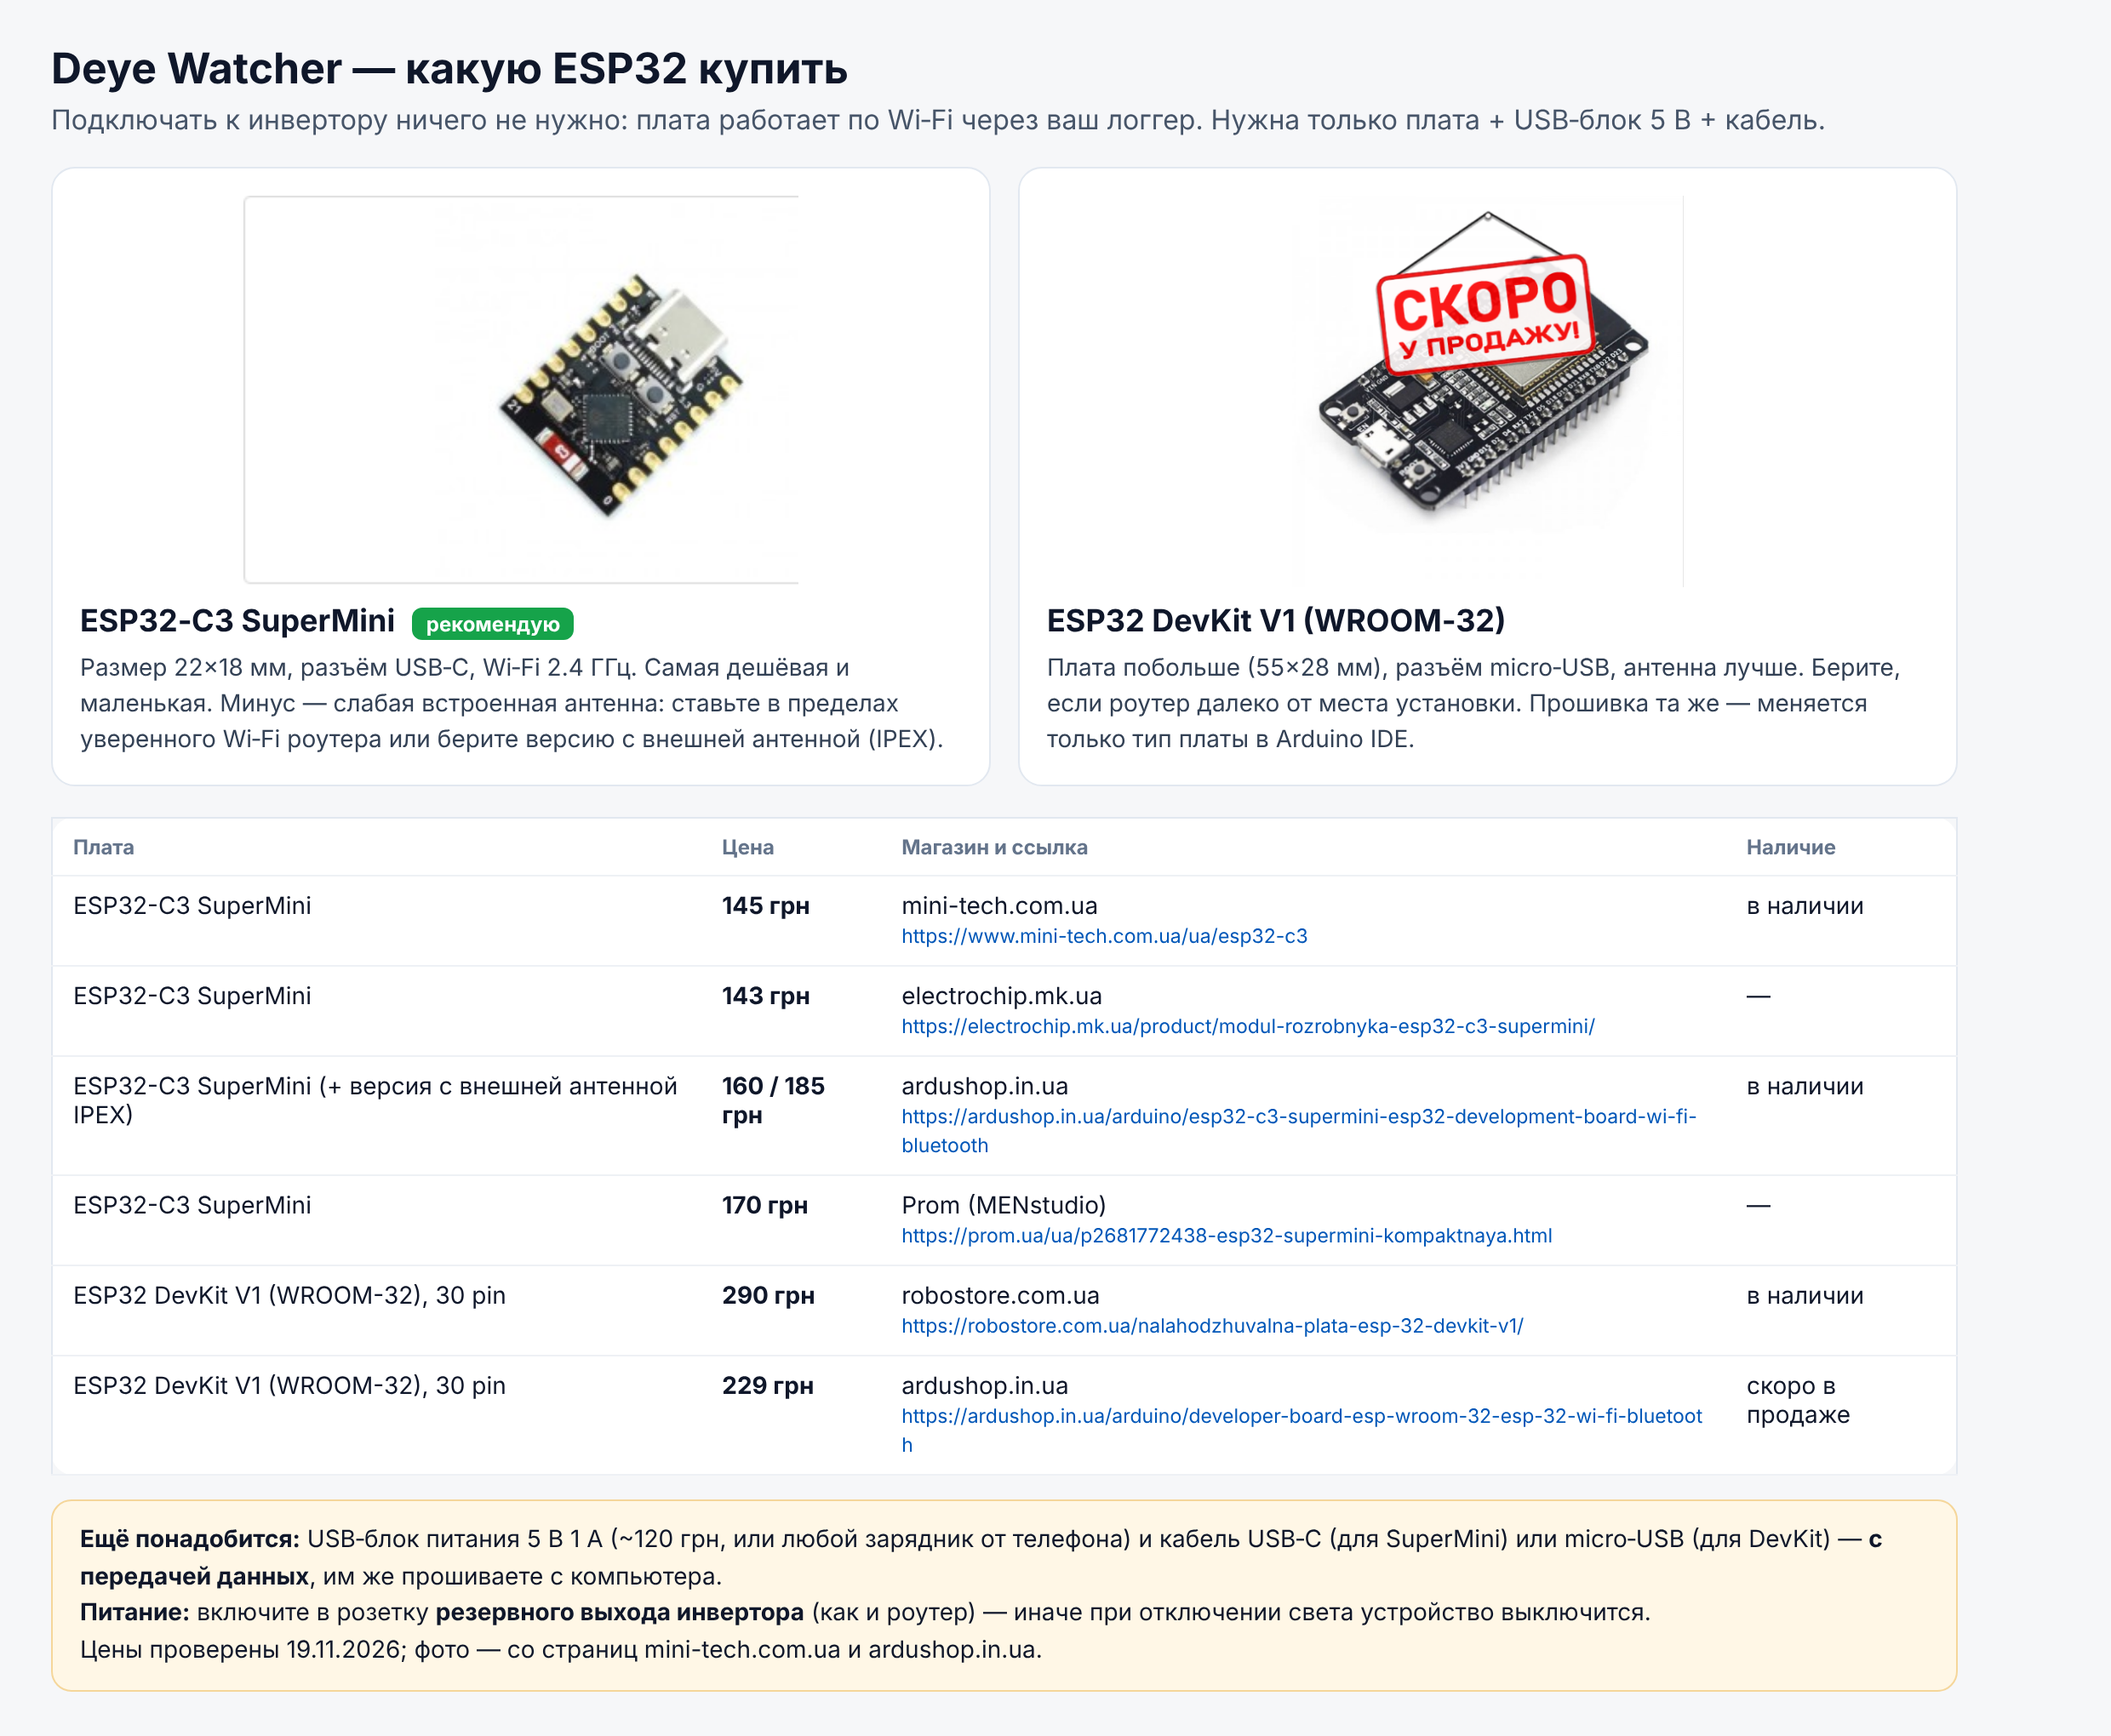
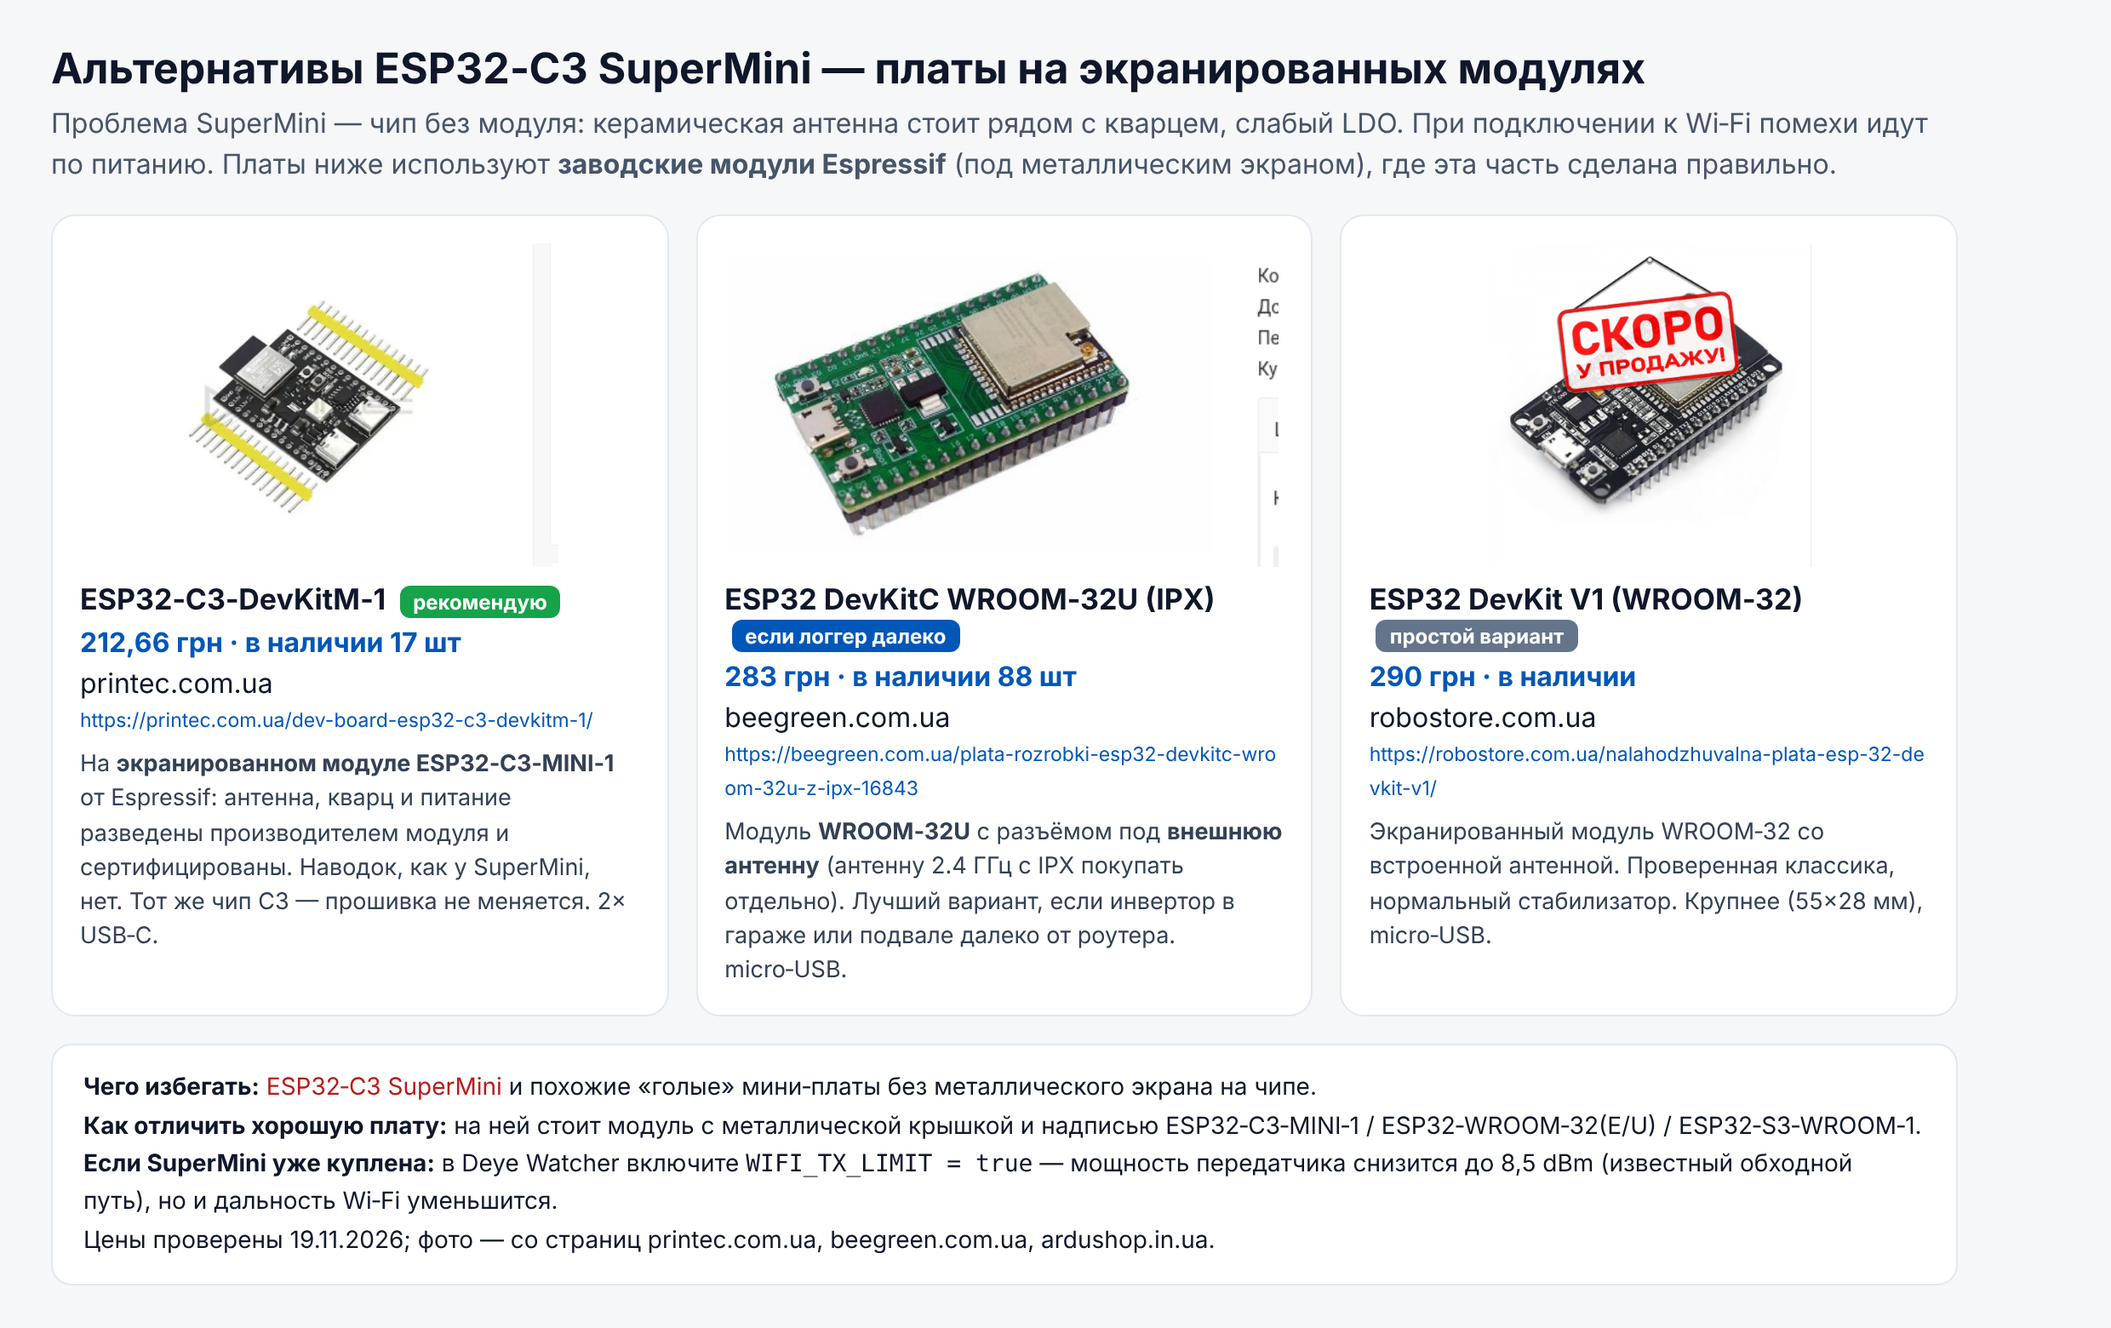
Deye Watcher: recommend module-based ESP32 boards, add TX power limit for SuperMini
ESP32-C3 SuperMini has a known RF/power layout flaw; recommend boards
with shielded Espressif modules and add WIFI_TX_LIMIT (8.5 dBm) option.

Claude-Session: https://claude.ai/code/session_01J7q9yPYShRGx79Xq9LS8H2

Changed region(s): [[0.0, 0.0308, 0.9315, 0.9846]]

diff --git a/light-watcher/Deye_Watcher/README.md b/light-watcher/Deye_Watcher/README.md
@@ -15,11 +15,14 @@
 ## Что купить
 | Что | Цена | Где |
 |---|---|---|
-| **ESP32‑C3 SuperMini** (рекомендую) | 143–170 грн | [mini-tech.com.ua](https://www.mini-tech.com.ua/ua/esp32-c3) · [electrochip.mk.ua](https://electrochip.mk.ua/product/modul-rozrobnyka-esp32-c3-supermini/) · [ardushop.in.ua](https://ardushop.in.ua/arduino/esp32-c3-supermini-esp32-development-board-wi-fi-bluetooth) (есть версия с внешней антенной, 185 грн) · [Prom](https://prom.ua/ua/p2681772438-esp32-supermini-kompaktnaya.html) |
-| или **ESP32 DevKit V1** — лучше антенна, если роутер далеко | 229–290 грн | [robostore.com.ua](https://robostore.com.ua/nalahodzhuvalna-plata-esp-32-devkit-v1/) · [ardushop.in.ua](https://ardushop.in.ua/arduino/developer-board-esp-wroom-32-esp-32-wi-fi-bluetooth) |
-| USB‑блок 5 В 1 А + кабель USB‑C (или micro‑USB для DevKit) **с передачей данных** | ~120–160 грн | любой магазин, подойдёт зарядка от телефона |
+| **ESP32‑C3‑DevKitM‑1** — модуль ESP32‑C3‑MINI‑1 под экраном (рекомендую) | 212,66 грн | [printec.com.ua](https://printec.com.ua/dev-board-esp32-c3-devkitm-1/) |
+| **ESP32 DevKitC WROOM‑32U** — разъём под внешнюю антенну, если логгер далеко от роутера | 283 грн | [beegreen.com.ua](https://beegreen.com.ua/plata-rozrobki-esp32-devkitc-wroom-32u-z-ipx-16843) (антенну IPX 2.4 ГГц докупить) |
+| **ESP32 DevKit V1 (WROOM‑32)** | 290 грн | [robostore.com.ua](https://robostore.com.ua/nalahodzhuvalna-plata-esp-32-devkit-v1/) |
+| USB‑блок 5 В 1 А + кабель **с передачей данных** | ~120–160 грн | подойдёт зарядка от телефона |
 
-**Итого ≈ 300 грн.** Питать от **резервного выхода инвертора**, как и Wi‑Fi роутер, иначе при отключении всё выключится.
+⚠ **ESP32‑C3 SuperMini не рекомендую:** чип без экранированного модуля, антенна рядом с кварцем, слабый стабилизатор — Wi‑Fi часто не подключается ([Reddit](https://www.reddit.com/r/esp32/comments/1r37gmk/esp32c3_super_minis_wifi_not_working/), [Arduino Project Hub](https://projecthub.arduino.cc/tarantula3/esp32-c3-super-mini-wifi-fix-3-methods-that-work-866a5e)). Если уже купили — поставьте `WIFI_TX_LIMIT = true` (мощность 8,5 dBm, меньше дальность).
+
+**Итого ≈ 350–450 грн.** Питать от **резервного выхода инвертора**, как и Wi‑Fi роутер, иначе при отключении всё выключится.
 
 ## Установка за 15 минут
 1. **IP логгера.** Откройте список клиентов в роутере и найдите логгер (MAC начинается на D4:27:87). Сделайте для него **резервирование адреса (DHCP reservation)**, чтобы IP не менялся.
